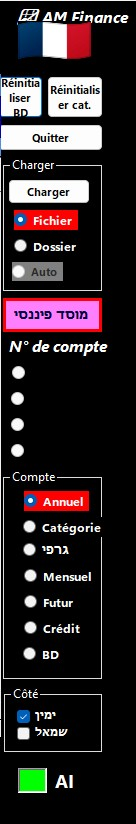
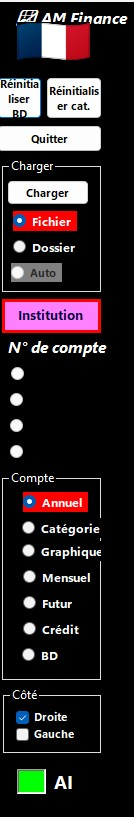
Translation elements fix

Changed region(s): [[0.0, 0.0, 0.9552, 0.9792]]

diff --git a/app/page.tsx b/app/page.tsx
@@ -4534,7 +4534,7 @@ const FINANCE_GUIDE_SECTIONS: Record<string, GuideSection[]> = {
     { heading: 'תצוגה שנתית', body: 'מסך תצוגה חודשית, מסך מרכזי אשר נפתח ראשון אחרי עמוד השער. בתצוגה זו נראה את המידע המאוחסן במסד הנתונים, אשר נטען מדפי חשבון של מוסד פיננסי. המסך מחולק לשני אזורים עיקריים. טבלה מרכזית הכוללת סיכום של הכנסות, הוצאו, יתרות ומאזנים. החלק השני הוא טבלאות פרוט של כל סיווג. בהקשה על הסיווג נפתח פירוט הפעולות. כל הנתונים בדף השנתי בעצם מוצגים בחתכים ומפתחות שונים בשאר התצוגות אשר מתוארות בהמשך.' },
     { heading: 'תצוגה חודשית', body: 'ברצונך לטפל רק בחודש מסוים, לחץ בלוח הבקרה על תצוגה חודשית. יפתח בפניך דף הכולל נגזרת של חודש מסוים מהדף השנתי. כאן אתה יכול לבחור כל חודש ומיד תקבל את הנתונים למסך.' },
     { heading: 'לוחות הודעות', body: 'בתחתית במסך, באופן קבוע קיימים שלושה לוחות להודעות המערכת, הודעות שוטפות, מידע ושגיאות אפשריות.' },
-    { heading: 'לוח הבקרה', body: 'מבט ימינה מביא אותנו ללוח בקרה של האתר. לוח הבקרה מצד ימין תמיד גלוי בפניך,\n\nכל אחד מהפריטים על לוח הבקרה נועד למלא פונקציה של הצגה מקומית או מעבר לדף אחר. בהמשך במסמך זה יפורטו כל הפריטים הללו.', image: { src: '/guides/mfinance-control-panel-he.jpg', width: 131, height: 812 } },
+    { heading: 'לוח הבקרה', body: 'מבט ימינה מביא אותנו ללוח בקרה של האתר. לוח הבקרה מצד ימין תמיד גלוי בפניך,\n\nכל אחד מהפריטים על לוח הבקרה נועד למלא פונקציה של הצגה מקומית או מעבר לדף אחר. בהמשך במסמך זה יפורטו כל הפריטים הללו.', image: { src: '/guides/mfinance-control-panel-he.jpg', width: 136, height: 819 } },
     { heading: 'צד לוח הבקרה', body: 'אם אתה ימני או שמאלי, אתה יכול ללחוץ על כפתור ימין או שמאל בלוח הבקרה ולוח הבקרה יעבור מצד לצד.' },
     { heading: 'נורית ה-AI', body: 'בתחתית לוח הבקרה מוארת נורית AI, צבע ירוק משמע זמין, אדום לא זמין. באופן כללי, גם כש ה AI לא זמין בד"כ המערכת יודעת להתמודד עם רוב הפעולות.' },
     { heading: 'סיום עבודה', body: 'סיימת עבודה וברצונך לסגור את האפליקציה. לחץ צא.' },
@@ -4570,7 +4570,7 @@ const FINANCE_GUIDE_SECTIONS: Record<string, GuideSection[]> = {
     { heading: 'Annual View', body: "The main screen, which opens first after the gate page. In this view we see the information stored in the database, loaded from account statements of a financial institution. The screen is divided into two main areas. A central table with a summary of income, expenses, balances. The second part is detail tables for each category. Tapping a category opens the transaction details. All the data on the annual page is actually shown in different breakdowns and keys in the rest of the views described below." },
     { heading: 'Monthly View', body: "Want to deal with just a specific month? Click Monthly View in the control panel. A page opens showing a derivative of a specific month from the annual page. Here you can choose any month and immediately get its data on screen." },
     { heading: 'Message Panels', body: "At the bottom of the screen, three system message panels are permanently present: ongoing messages, information, and possible errors." },
-    { heading: 'Control Panel', body: "Looking to the right brings us to the site's control panel. The control panel is always visible on the right side.\n\nEach of the items on the control panel serves to display something locally or move to another page. All these items are detailed further in this document.", image: { src: '/guides/mfinance-control-panel-en.jpg', width: 136, height: 816 } },
+    { heading: 'Control Panel', body: "Looking to the right brings us to the site's control panel. The control panel is always visible on the right side.\n\nEach of the items on the control panel serves to display something locally or move to another page. All these items are detailed further in this document.", image: { src: '/guides/mfinance-control-panel-en.jpg', width: 128, height: 814 } },
     { heading: 'Control Panel Side', body: "Whether you're right-handed or left-handed, you can click the right or left button on the control panel and the control panel will move from side to side." },
     { heading: 'AI Indicator', body: 'At the bottom of the control panel an AI indicator light is lit - green means available, red means not available. In general, even when AI is not available, the system usually knows how to handle most operations.' },
     { heading: 'Finish Working', body: 'Done working and want to close the application? Click Exit.' },
@@ -4606,7 +4606,7 @@ const FINANCE_GUIDE_SECTIONS: Record<string, GuideSection[]> = {
     { heading: 'Годовой вид', body: 'Главный экран, который открывается первым после страницы входа. В этом виде мы видим информацию, хранящуюся в базе данных, загруженную из выписок финансового учреждения. Экран разделён на две основные области. Центральная таблица со сводкой доходов, расходов, остатков и балансов. Вторая часть - таблицы детализации по каждой категории. При нажатии на категорию открывается детализация операций. Все данные на годовой странице фактически отображаются в разных разрезах и ключах в остальных представлениях, описанных далее.' },
     { heading: 'Месячный вид', body: 'Хотите работать только с определённым месяцем? Нажмите "Месячный вид" на панели управления. Откроется страница, содержащая производную определённого месяца из годовой страницы. Здесь вы можете выбрать любой месяц и сразу получить его данные на экране.' },
     { heading: 'Панели сообщений', body: 'Внизу экрана постоянно присутствуют три панели системных сообщений: текущие сообщения, информация и возможные ошибки.' },
-    { heading: 'Панель управления', body: 'Взгляд направо приводит нас к панели управления сайта. Панель управления всегда видна с правой стороны.\n\nКаждый из элементов панели управления предназначен для локального отображения или перехода на другую страницу. Все эти элементы подробно описаны далее в этом документе.', image: { src: '/guides/mfinance-control-panel-ru.jpg', width: 132, height: 814 } },
+    { heading: 'Панель управления', body: 'Взгляд направо приводит нас к панели управления сайта. Панель управления всегда видна с правой стороны.\n\nКаждый из элементов панели управления предназначен для локального отображения или перехода на другую страницу. Все эти элементы подробно описаны далее в этом документе.', image: { src: '/guides/mfinance-control-panel-ru.jpg', width: 133, height: 814 } },
     { heading: 'Сторона панели управления', body: 'Правша вы или левша, вы можете нажать кнопку "вправо" или "влево" на панели управления, и панель управления переместится с одной стороны на другую.' },
     { heading: 'Индикатор ИИ', body: 'Внизу панели управления горит индикатор ИИ - зелёный цвет означает доступность, красный - недоступность. В целом, даже когда ИИ недоступен, система обычно умеет справляться с большинством операций.' },
     { heading: 'Завершение работы', body: 'Закончили работу и хотите закрыть приложение? Нажмите "Выход".' },
@@ -4642,7 +4642,7 @@ const FINANCE_GUIDE_SECTIONS: Record<string, GuideSection[]> = {
     { heading: 'Jahresansicht', body: 'Der Hauptbildschirm, der zuerst nach der Eingangsseite geöffnet wird. In dieser Ansicht sehen wir die in der Datenbank gespeicherten Informationen, geladen aus Kontoauszügen eines Finanzinstituts. Der Bildschirm ist in zwei Hauptbereiche unterteilt. Eine zentrale Tabelle mit einer Zusammenfassung von Einnahmen, Ausgaben, Salden und Bilanzen. Der zweite Teil sind Detailtabellen für jede Kategorie. Ein Tippen auf die Kategorie öffnet die Transaktionsdetails. Alle Daten auf der Jahresseite werden tatsächlich in verschiedenen Aufschlüsselungen und Schlüsseln in den übrigen unten beschriebenen Ansichten angezeigt.' },
     { heading: 'Monatsansicht', body: 'Möchten Sie sich nur mit einem bestimmten Monat befassen? Klicken Sie im Bedienfeld auf Monatsansicht. Es öffnet sich eine Seite mit einer Ableitung eines bestimmten Monats aus der Jahresseite. Hier können Sie jeden Monat auswählen und erhalten sofort dessen Daten auf dem Bildschirm.' },
     { heading: 'Nachrichtenfelder', body: 'Am unteren Rand des Bildschirms sind dauerhaft drei Systemnachrichtenfelder vorhanden: laufende Meldungen, Informationen und mögliche Fehler.' },
-    { heading: 'Bedienfeld', body: 'Ein Blick nach rechts bringt uns zum Bedienfeld der Website. Das Bedienfeld ist immer auf der rechten Seite sichtbar.\n\nJedes der Elemente im Bedienfeld dient dazu, eine lokale Anzeige darzustellen oder zu einer anderen Seite zu wechseln. Alle diese Elemente werden im weiteren Verlauf dieses Dokuments detailliert beschrieben.', image: { src: '/guides/mfinance-control-panel-de.jpg', width: 131, height: 814 } },
+    { heading: 'Bedienfeld', body: 'Ein Blick nach rechts bringt uns zum Bedienfeld der Website. Das Bedienfeld ist immer auf der rechten Seite sichtbar.\n\nJedes der Elemente im Bedienfeld dient dazu, eine lokale Anzeige darzustellen oder zu einer anderen Seite zu wechseln. Alle diese Elemente werden im weiteren Verlauf dieses Dokuments detailliert beschrieben.', image: { src: '/guides/mfinance-control-panel-de.jpg', width: 136, height: 809 } },
     { heading: 'Seite des Bedienfelds', body: 'Ob Sie Rechtshänder oder Linkshänder sind, Sie können die Schaltfläche rechts oder links im Bedienfeld klicken, und das Bedienfeld wechselt von einer Seite zur anderen.' },
     { heading: 'KI-Anzeige', body: 'Am unteren Rand des Bedienfelds leuchtet eine KI-Anzeigeleuchte - grün bedeutet verfügbar, rot bedeutet nicht verfügbar. Im Allgemeinen kann das System auch dann, wenn KI nicht verfügbar ist, mit den meisten Vorgängen umgehen.' },
     { heading: 'Arbeit beenden', body: 'Fertig mit der Arbeit und möchten die Anwendung schließen? Klicken Sie auf Beenden.' },
@@ -4678,7 +4678,7 @@ const FINANCE_GUIDE_SECTIONS: Record<string, GuideSection[]> = {
     { heading: 'Vue annuelle', body: "L'écran principal, qui s'ouvre en premier après la page d'accueil. Dans cette vue, nous voyons les informations stockées dans la base de données, chargées à partir des relevés de compte d'un établissement financier. L'écran est divisé en deux zones principales. Un tableau central comprenant un résumé des revenus, dépenses, soldes et bilans. La seconde partie est constituée de tableaux de détail pour chaque catégorie. Toucher la catégorie ouvre le détail des transactions. Toutes les données de la page annuelle sont en fait affichées selon différentes coupes et clés dans le reste des vues décrites plus loin." },
     { heading: 'Vue mensuelle', body: "Vous voulez traiter uniquement un mois spécifique ? Cliquez sur Vue mensuelle dans le panneau de contrôle. Une page s'ouvre contenant une dérivée d'un mois spécifique à partir de la page annuelle. Ici, vous pouvez choisir n'importe quel mois et obtenir immédiatement ses données à l'écran." },
     { heading: 'Panneaux de messages', body: "En bas de l'écran, trois panneaux de messages système sont présents en permanence : messages courants, informations et erreurs éventuelles." },
-    { heading: 'Panneau de contrôle', body: "Un regard vers la droite nous amène au panneau de contrôle du site. Le panneau de contrôle est toujours visible du côté droit.\n\nChacun des éléments du panneau de contrôle sert à afficher quelque chose localement ou à passer à une autre page. Tous ces éléments sont détaillés plus loin dans ce document.", image: { src: '/guides/mfinance-control-panel-fr.jpg', width: 136, height: 824 } },
+    { heading: 'Panneau de contrôle', body: "Un regard vers la droite nous amène au panneau de contrôle du site. Le panneau de contrôle est toujours visible du côté droit.\n\nChacun des éléments du panneau de contrôle sert à afficher quelque chose localement ou à passer à une autre page. Tous ces éléments sont détaillés plus loin dans ce document.", image: { src: '/guides/mfinance-control-panel-fr.jpg', width: 134, height: 817 } },
     { heading: 'Côté du panneau de contrôle', body: "Que vous soyez droitier ou gaucher, vous pouvez cliquer sur le bouton droit ou gauche du panneau de contrôle, et le panneau de contrôle passera d'un côté à l'autre." },
     { heading: "Voyant d'IA", body: "En bas du panneau de contrôle, un voyant IA est allumé - le vert signifie disponible, le rouge signifie non disponible. En général, même lorsque l'IA n'est pas disponible, le système sait généralement gérer la plupart des opérations." },
     { heading: 'Fin du travail', body: "Vous avez terminé de travailler et souhaitez fermer l'application ? Cliquez sur Quitter." },
@@ -4714,7 +4714,7 @@ const FINANCE_GUIDE_SECTIONS: Record<string, GuideSection[]> = {
     { heading: 'Vista anual', body: 'La pantalla principal, que se abre primero después de la página de entrada. En esta vista vemos la información almacenada en la base de datos, cargada desde los extractos de cuenta de una entidad financiera. La pantalla se divide en dos áreas principales. Una tabla central con un resumen de ingresos, gastos, saldos y balances. La segunda parte son tablas de detalle para cada categoría. Al tocar la categoría se abre el detalle de las transacciones. Todos los datos de la página anual se muestran en realidad en diferentes desgloses y claves en el resto de las vistas descritas más adelante.' },
     { heading: 'Vista mensual', body: '¿Quiere ocuparse solo de un mes específico? Haga clic en Vista mensual en el panel de control. Se abre una página que contiene una derivada de un mes específico de la página anual. Aquí puede elegir cualquier mes y obtener inmediatamente sus datos en pantalla.' },
     { heading: 'Paneles de mensajes', body: 'En la parte inferior de la pantalla, tres paneles de mensajes del sistema están presentes permanentemente: mensajes en curso, información y posibles errores.' },
-    { heading: 'Panel de control', body: 'Una mirada hacia la derecha nos lleva al panel de control del sitio. El panel de control siempre está visible en el lado derecho.\n\nCada uno de los elementos del panel de control sirve para mostrar algo localmente o pasar a otra página. Todos estos elementos se detallan más adelante en este documento.', image: { src: '/guides/mfinance-control-panel-es.jpg', width: 131, height: 813 } },
+    { heading: 'Panel de control', body: 'Una mirada hacia la derecha nos lleva al panel de control del sitio. El panel de control siempre está visible en el lado derecho.\n\nCada uno de los elementos del panel de control sirve para mostrar algo localmente o pasar a otra página. Todos estos elementos se detallan más adelante en este documento.', image: { src: '/guides/mfinance-control-panel-es.jpg', width: 137, height: 811 } },
     { heading: 'Lado del panel de control', body: 'Ya sea diestro o zurdo, puede hacer clic en el botón derecho o izquierdo del panel de control, y el panel de control se moverá de un lado a otro.' },
     { heading: 'Indicador de IA', body: 'En la parte inferior del panel de control hay una luz indicadora de IA encendida - verde significa disponible, rojo significa no disponible. En general, incluso cuando la IA no está disponible, el sistema generalmente sabe manejar la mayoría de las operaciones.' },
     { heading: 'Finalizar el trabajo', body: '¿Terminó de trabajar y quiere cerrar la aplicación? Haga clic en Salir.' },
@@ -4750,7 +4750,7 @@ const FINANCE_GUIDE_SECTIONS: Record<string, GuideSection[]> = {
     { heading: '年間表示', body: 'ゲートページの後に最初に開くメイン画面です。この表示では、金融機関の明細書から読み込まれ、データベースに保存された情報を見ます。画面は2つの主要な領域に分かれています。収入、支出、残高、収支の要約を含む中央の表。2番目の部分は各カテゴリーの詳細表です。カテゴリーをタップすると取引の詳細が開きます。年間ページのすべてのデータは、実際には以下で説明する残りの表示で異なる区分とキーによって表示されます。' },
     { heading: '月間表示', body: '特定の月だけを扱いたいですか？コントロールパネルで月間表示をクリックしてください。年間ページから特定の月の派生を含むページが開きます。ここで任意の月を選択すると、すぐにそのデータが画面に表示されます。' },
     { heading: 'メッセージパネル', body: '画面下部には、常時3つのシステムメッセージパネルがあります：進行中のメッセージ、情報、および起こりうるエラー。' },
-    { heading: 'コントロールパネル', body: '右を見ると、サイトのコントロールパネルにたどり着きます。コントロールパネルは常に右側に表示されます。\n\nコントロールパネルの各項目は、ローカルに何かを表示するか、別のページに移動するための機能を持っています。これらの項目はすべて、この文書のさらに後で詳しく説明されます。', image: { src: '/guides/mfinance-control-panel-ja.jpg', width: 138, height: 817 } },
+    { heading: 'コントロールパネル', body: '右を見ると、サイトのコントロールパネルにたどり着きます。コントロールパネルは常に右側に表示されます。\n\nコントロールパネルの各項目は、ローカルに何かを表示するか、別のページに移動するための機能を持っています。これらの項目はすべて、この文書のさらに後で詳しく説明されます。', image: { src: '/guides/mfinance-control-panel-ja.jpg', width: 134, height: 815 } },
     { heading: 'コントロールパネルの側面', body: '右利きでも左利きでも、コントロールパネルの右または左のボタンをクリックすると、コントロールパネルが左右に移動します。' },
     { heading: 'AIインジケーター', body: 'コントロールパネルの下部にAIインジケーターランプが点灯しています - 緑は利用可能、赤は利用不可を意味します。一般的に、AIが利用できない場合でも、システムは通常ほとんどの操作に対応できます。' },
     { heading: '作業終了', body: '作業を終えてアプリケーションを閉じたいですか？終了をクリックしてください。' },
@@ -4786,7 +4786,7 @@ const FINANCE_GUIDE_SECTIONS: Record<string, GuideSection[]> = {
     { heading: 'العرض السنوي', body: 'الشاشة الرئيسية، التي تفتح أولاً بعد صفحة البوابة. في هذا العرض نرى المعلومات المخزنة في قاعدة البيانات، المحملة من كشوفات حساب مؤسسة مالية. تنقسم الشاشة إلى منطقتين رئيسيتين. جدول مركزي يتضمن ملخصًا للدخل والمصروفات والأرصدة والموازين. الجزء الثاني هو جداول تفصيلية لكل فئة. النقر على الفئة يفتح تفاصيل المعاملات. جميع البيانات في الصفحة السنوية تُعرض فعليًا بمقاطع ومفاتيح مختلفة في بقية العروض الموصوفة أدناه.' },
     { heading: 'العرض الشهري', body: 'تريد التعامل مع شهر معين فقط؟ انقر على العرض الشهري في لوحة التحكم. تفتح صفحة تحتوي على مشتق من شهر معين من الصفحة السنوية. هنا يمكنك اختيار أي شهر والحصول فورًا على بياناته على الشاشة.' },
     { heading: 'لوحات الرسائل', body: 'أسفل الشاشة، توجد بشكل دائم ثلاث لوحات لرسائل النظام: رسائل جارية، معلومات، وأخطاء محتملة.' },
-    { heading: 'لوحة التحكم', body: 'النظر إلى اليمين يقودنا إلى لوحة تحكم الموقع. لوحة التحكم مرئية دائمًا على الجانب الأيمن.\n\nكل عنصر في لوحة التحكم مخصص لعرض شيء محليًا أو الانتقال إلى صفحة أخرى. جميع هذه العناصر مفصلة لاحقًا في هذا المستند.', image: { src: '/guides/mfinance-control-panel-ar.jpg', width: 134, height: 817 } },
+    { heading: 'لوحة التحكم', body: 'النظر إلى اليمين يقودنا إلى لوحة تحكم الموقع. لوحة التحكم مرئية دائمًا على الجانب الأيمن.\n\nكل عنصر في لوحة التحكم مخصص لعرض شيء محليًا أو الانتقال إلى صفحة أخرى. جميع هذه العناصر مفصلة لاحقًا في هذا المستند.', image: { src: '/guides/mfinance-control-panel-ar.jpg', width: 131, height: 809 } },
     { heading: 'جانب لوحة التحكم', body: 'سواء كنت أيمن أو أعسر، يمكنك النقر على الزر الأيمن أو الأيسر في لوحة التحكم، وستنتقل لوحة التحكم من جانب إلى آخر.' },
     { heading: 'مؤشر الذكاء الاصطناعي', body: 'أسفل لوحة التحكم يضيء مؤشر الذكاء الاصطناعي - الأخضر يعني متاح، الأحمر يعني غير متاح. بشكل عام، حتى عندما لا يكون الذكاء الاصطناعي متاحًا، يعرف النظام عادةً كيفية التعامل مع معظم العمليات.' },
     { heading: 'إنهاء العمل', body: 'انتهيت من العمل وتريد إغلاق التطبيق؟ انقر على خروج.' },
@@ -4822,7 +4822,7 @@ const FINANCE_GUIDE_SECTIONS: Record<string, GuideSection[]> = {
     { heading: '年度视图', body: '门户页面之后首先打开的主屏幕。在此视图中，我们看到存储在数据库中的信息，该信息是从金融机构的账户对账单加载而来的。屏幕分为两个主要区域。一个中央表格，包含收入、支出、余额和结余的摘要。第二部分是每个类别的明细表。点击类别会打开交易明细。年度页面上的所有数据实际上以不同的细分和维度显示在下面描述的其余视图中。' },
     { heading: '月度视图', body: '只想处理特定的某个月？在控制面板中点击月度视图。将打开一个页面，其中包含年度页面中特定月份的衍生数据。在这里您可以选择任意月份，并立即在屏幕上获得该月的数据。' },
     { heading: '消息面板', body: '屏幕底部始终存在三个系统消息面板：进行中的消息、信息，以及可能的错误。' },
-    { heading: '控制面板', body: '向右看，我们会看到网站的控制面板。控制面板始终显示在右侧。\n\n控制面板上的每个项目都用于本地显示某些内容或转到另一个页面。所有这些项目将在本文档后面详细说明。', image: { src: '/guides/mfinance-control-panel-zh.jpg', width: 135, height: 812 } },
+    { heading: '控制面板', body: '向右看，我们会看到网站的控制面板。控制面板始终显示在右侧。\n\n控制面板上的每个项目都用于本地显示某些内容或转到另一个页面。所有这些项目将在本文档后面详细说明。', image: { src: '/guides/mfinance-control-panel-zh.jpg', width: 135, height: 815 } },
     { heading: '控制面板的位置', body: '无论您是右撇子还是左撇子，您都可以点击控制面板上的右侧或左侧按钮，控制面板就会从一侧移动到另一侧。' },
     { heading: 'AI 指示灯', body: '控制面板底部亮起一个 AI 指示灯——绿色表示可用，红色表示不可用。总体而言，即使 AI 不可用，系统通常也能处理大多数操作。' },
     { heading: '结束工作', body: '完成工作想关闭应用程序？点击"退出"。' },
@@ -4858,7 +4858,7 @@ const FINANCE_GUIDE_SECTIONS: Record<string, GuideSection[]> = {
     { heading: 'Vista annuale', body: "Lo schermo principale, che si apre per primo dopo la pagina del portale. In questa vista vediamo le informazioni memorizzate nel database, caricate dagli estratti conto di un istituto finanziario. Lo schermo è diviso in due aree principali. Una tabella centrale che include un riepilogo di entrate, uscite, saldi e bilanci. La seconda parte sono tabelle di dettaglio per ogni categoria. Toccando la categoria si apre il dettaglio delle transazioni. Tutti i dati nella pagina annuale sono in realtà mostrati con diverse suddivisioni e chiavi nel resto delle viste descritte di seguito." },
     { heading: 'Vista mensile', body: "Vuoi occuparti solo di un mese specifico? Clicca su Vista mensile nel pannello di controllo. Si apre una pagina contenente una derivata di un mese specifico dalla pagina annuale. Qui puoi scegliere qualsiasi mese e ottenere immediatamente i suoi dati sullo schermo." },
     { heading: 'Pannelli dei messaggi', body: 'Nella parte inferiore dello schermo sono presenti in modo permanente tre pannelli di messaggi di sistema: messaggi correnti, informazioni ed eventuali errori.' },
-    { heading: 'Pannello di controllo', body: "Uno sguardo verso destra ci porta al pannello di controllo del sito. Il pannello di controllo è sempre visibile sul lato destro.\n\nOgnuno degli elementi del pannello di controllo serve a mostrare qualcosa localmente o a passare a un'altra pagina. Tutti questi elementi sono descritti in dettaglio più avanti in questo documento.", image: { src: '/guides/mfinance-control-panel-it.jpg', width: 135, height: 822 } },
+    { heading: 'Pannello di controllo', body: "Uno sguardo verso destra ci porta al pannello di controllo del sito. Il pannello di controllo è sempre visibile sul lato destro.\n\nOgnuno degli elementi del pannello di controllo serve a mostrare qualcosa localmente o a passare a un'altra pagina. Tutti questi elementi sono descritti in dettaglio più avanti in questo documento.", image: { src: '/guides/mfinance-control-panel-it.jpg', width: 128, height: 817 } },
     { heading: 'Lato del pannello di controllo', body: 'Che tu sia destro o mancino, puoi cliccare sul pulsante destro o sinistro nel pannello di controllo, e il pannello di controllo si sposterà da un lato all\'altro.' },
     { heading: 'Indicatore IA', body: "Nella parte inferiore del pannello di controllo è accesa una spia IA - il verde significa disponibile, il rosso significa non disponibile. In generale, anche quando l'IA non è disponibile, il sistema di solito sa gestire la maggior parte delle operazioni." },
     { heading: 'Terminare il lavoro', body: "Hai finito di lavorare e vuoi chiudere l'applicazione? Clicca su Esci." },
@@ -4894,7 +4894,7 @@ const FINANCE_GUIDE_SECTIONS: Record<string, GuideSection[]> = {
     { heading: 'वार्षिक दृश्य', body: 'मुख्य स्क्रीन, जो गेट पेज के बाद पहले खुलती है। इस दृश्य में हम डेटाबेस में संग्रहीत जानकारी देखते हैं, जो किसी वित्तीय संस्थान के खाता विवरण से लोड की गई है। स्क्रीन दो मुख्य क्षेत्रों में विभाजित है। आय, व्यय, शेष और बैलेंस के सारांश वाली एक केंद्रीय तालिका। दूसरा भाग प्रत्येक श्रेणी के लिए विवरण तालिकाएं हैं। श्रेणी पर टैप करने से लेन-देन का विवरण खुलता है। वार्षिक पृष्ठ पर सभी डेटा वास्तव में नीचे वर्णित शेष दृश्यों में विभिन्न विभाजनों और कुंजियों में दिखाया जाता है।' },
     { heading: 'मासिक दृश्य', body: 'केवल किसी विशेष महीने से निपटना चाहते हैं? नियंत्रण पैनल में मासिक दृश्य पर क्लिक करें। एक पृष्ठ खुलेगा जिसमें वार्षिक पृष्ठ से किसी विशेष महीने का व्युत्पन्न शामिल है। यहां आप कोई भी महीना चुन सकते हैं और तुरंत स्क्रीन पर उसका डेटा प्राप्त कर सकते हैं।' },
     { heading: 'संदेश पैनल', body: 'स्क्रीन के निचले भाग में, स्थायी रूप से तीन सिस्टम संदेश पैनल मौजूद हैं: चालू संदेश, जानकारी, और संभावित त्रुटियां।' },
-    { heading: 'नियंत्रण पैनल', body: 'दाईं ओर देखने से हम साइट के नियंत्रण पैनल पर पहुंचते हैं। नियंत्रण पैनल हमेशा दाईं ओर दिखाई देता है।\n\nनियंत्रण पैनल पर प्रत्येक आइटम स्थानीय रूप से कुछ प्रदर्शित करने या किसी अन्य पृष्ठ पर जाने के लिए है। ये सभी आइटम इस दस्तावेज़ में आगे विस्तार से बताए गए हैं।', image: { src: '/guides/mfinance-control-panel-hi.jpg', width: 136, height: 812 } },
+    { heading: 'नियंत्रण पैनल', body: 'दाईं ओर देखने से हम साइट के नियंत्रण पैनल पर पहुंचते हैं। नियंत्रण पैनल हमेशा दाईं ओर दिखाई देता है।\n\nनियंत्रण पैनल पर प्रत्येक आइटम स्थानीय रूप से कुछ प्रदर्शित करने या किसी अन्य पृष्ठ पर जाने के लिए है। ये सभी आइटम इस दस्तावेज़ में आगे विस्तार से बताए गए हैं।', image: { src: '/guides/mfinance-control-panel-hi.jpg', width: 133, height: 819 } },
     { heading: 'नियंत्रण पैनल की दिशा', body: 'चाहे आप दाएं हाथ के हों या बाएं हाथ के, आप नियंत्रण पैनल पर दाएं या बाएं बटन पर क्लिक कर सकते हैं, और नियंत्रण पैनल एक तरफ से दूसरी तरफ चला जाएगा।' },
     { heading: 'AI संकेतक', body: 'नियंत्रण पैनल के निचले भाग में एक AI संकेतक लाइट जलती है - हरा का मतलब उपलब्ध है, लाल का मतलब उपलब्ध नहीं है। सामान्य तौर पर, जब AI उपलब्ध नहीं होता है, तब भी सिस्टम आमतौर पर अधिकांश संचालन संभालना जानता है।' },
     { heading: 'काम समाप्त करना', body: 'काम खत्म हो गया और एप्लिकेशन बंद करना चाहते हैं? बाहर निकलें पर क्लिक करें।' },
